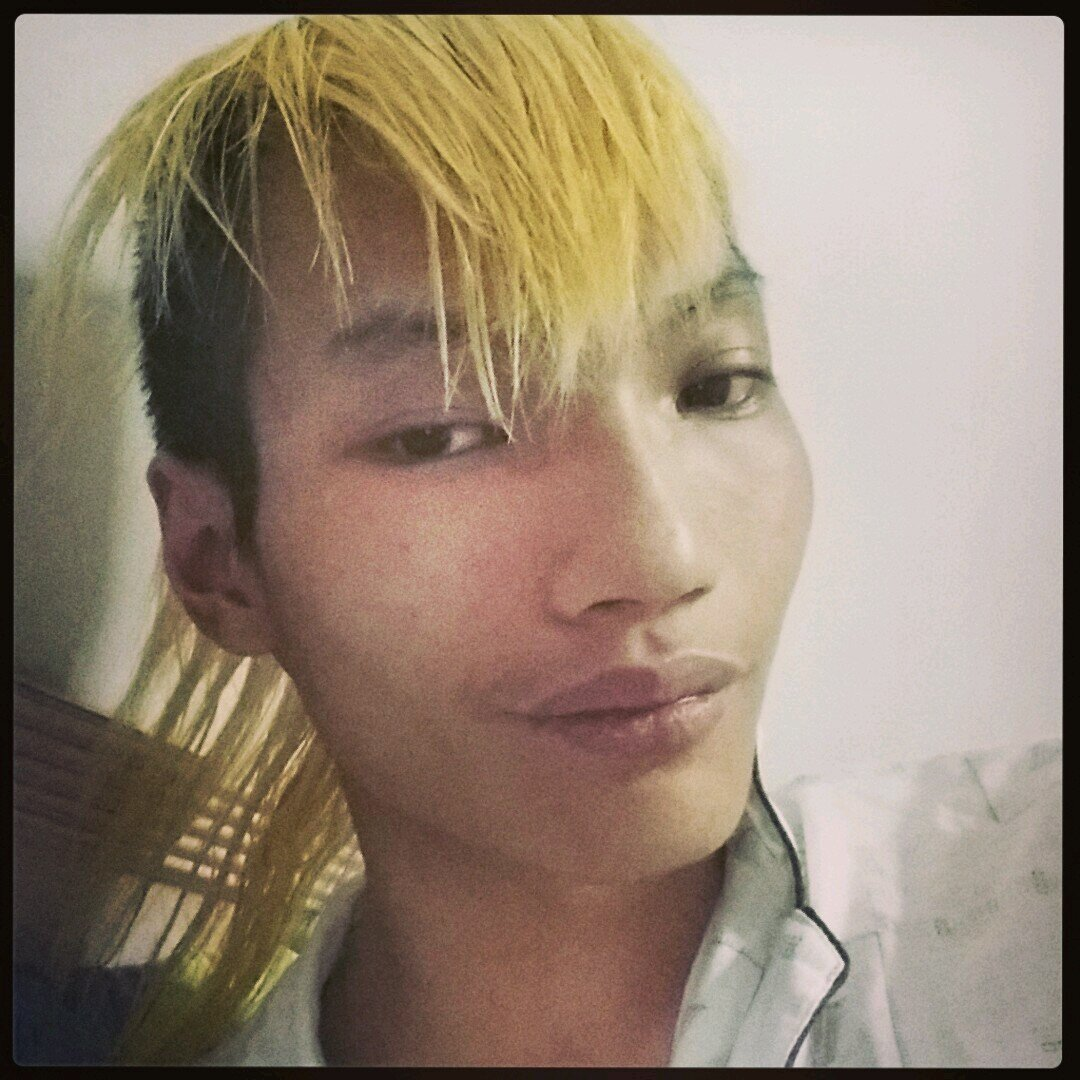
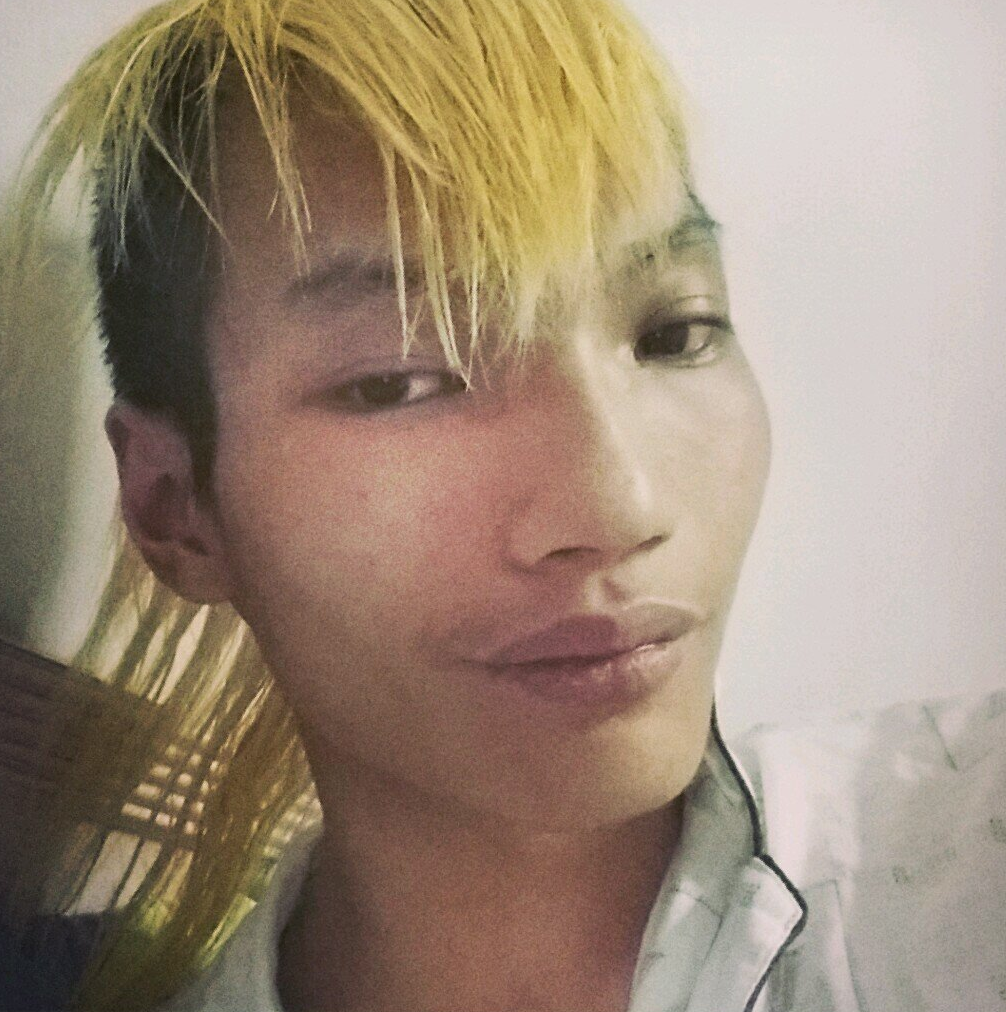
update

diff --git a/src/pages/profile/profile.html b/src/pages/profile/profile.html
@@ -14,7 +14,7 @@
         <ion-item>
 
             <h2>Sylee Yo</h2>
-            <button ion-button icon-only clear small color="twitter">
+            <!--<button ion-button icon-only clear small color="twitter">
             <ion-icon name="logo-twitter"></ion-icon>
         </button>
             <button ion-button icon-only clear small color="facebook">
@@ -22,7 +22,25 @@
         </button>
             <button ion-button icon-only clear small color="instagram">
             <ion-icon name="logo-instagram"></ion-icon>
-        </button>
+        </button>-->
+            <div class="cbox">
+                <h3 style="color:grey;">Followers:</h3>
+                <h2 style="color:#FACB1B;font-size: 1.7em;">6969</h2>
+            </div>
+            <div class="cbox">
+                <h3 style="color:grey;">Post Made:</h3>
+                <h2 style="color:#FACB1B;font-size: 1.7em;">6969</h2>
+            </div>
+            <div class="cbox">
+                <h3 style="color:grey;">Companies:</h3>
+                <h2 style="color:#FACB1B; font-size: 1.7em;">6969</h2>
+            </div>
+             <div class="lbox">
+                <h3 style="color:grey;">Payment Method:</h3>
+               <div class="lboxfinal">
+                visa blah blah
+               </div>
+            </div>
         </ion-item>
     </ion-card>
 

diff --git a/src/pages/profile/profile.scss b/src/pages/profile/profile.scss
@@ -1,8 +1,10 @@
 page-profile {}
 
 .influencer-detail img {
-    max-width: 250px;
+    max-width: 50%;
+    max-height: 200px;
     border-radius: 50%;
+    margin-top: 3%;
 }
 
 .profile-picture {
@@ -15,4 +17,55 @@ page-profile {}
     display: -webkit-box;
     -webkit-box-pack: center;
     -webkit-box-align: center;
+}
+.card-md,
+.card-ios
+{
+    background-color:#181818;
+    height: 100%;
+    width:100%;
+    margin:0px;
+}
+.card-md .item-md.item-block .item-inner
+{
+    margin-top:3%;
+
+}
+.card-md h2,
+.item-ios h2
+{
+    color:#f1f1f1;
+    text-align: center;
+    line-height: 25px;
+    font-size: 1.5em;
+}
+.cbox {
+    text-align: center;
+    margin-top: 10%;
+    /* background: #000; */
+    width: 65%;
+    margin: 5%auto;
+}
+.grey{
+    color:grey;
+}
+.kuning
+{
+    color:#FACB1B;
+    font-size: 1.3em;
+}
+
+.card-ios > .item:last-child, .card-ios > .item:last-child .item-inner, .card-ios > .item-wrapper:last-child .item
+,
+.card-md > .item:last-child, .card-md > .item:last-child .item-inner, .card-md > .item-wrapper:last-child .item
+{
+        text-align: center;
+    width: 100%;
+}
+.lbox
+{
+        background: #000;
+    width: 100%;
+    text-align: left;
+    padding: 3%;
 }

diff --git a/src/pages/home/home.html b/src/pages/home/home.html
@@ -11,7 +11,7 @@
         <div class="image">
             <img class="notfirst" src="./assets/Images/home/cafe.png" alt="..." />
             <div class="text">
-            <span class="yellow">CHIME</span><br/>
+            <span class="yellow">CHIME</span>
                 CAFE
             </div>
         </div>
@@ -19,7 +19,7 @@
         <div class="image">
             <img class="notfirst" src="./assets/Images/home/store.png" alt="">
             <div class="text">
-                <span class="yellow">CHIME</span><br/>
+                <span class="yellow">CHIME</span>
                 APPAREL
             </div>
         </div>
@@ -29,7 +29,7 @@
         <div class="image">
             <img class="notfirst lastone" src="./assets/Images/home/restaurant.png" alt="">
             <div class="text">
-                <span class="yellow">CHIME</span><br/>
+                <span class="yellow">CHIME</span>
                 RESTAURANT
             </div>
         </div>

diff --git a/src/pages/home/home.scss b/src/pages/home/home.scss
@@ -27,9 +27,10 @@ page-home {}
     color: white;
     left: 0;
     position: absolute;
-    text-align: center;
-    top: 30%;
-    font-size: 40px;
+    text-align: left;
+    padding-left: 4%;
+    top: 70%;
+    font-size: 30px;
     width: 100%;
     font-weight: bold;
 }

diff --git a/src/pages/tabs/tabs.scss b/src/pages/tabs/tabs.scss
@@ -24,9 +24,9 @@ page-tabs {}
     color:#8c8c8c;
 }
 
-.tabs-ios .tab-button-text{
-    //display:none;
-}
+// .tabs-ios .tab-button-text{
+//     //display:none;
+// }
 .tabs-ios .tab-button-icon
 {
     margin-top:0px;
